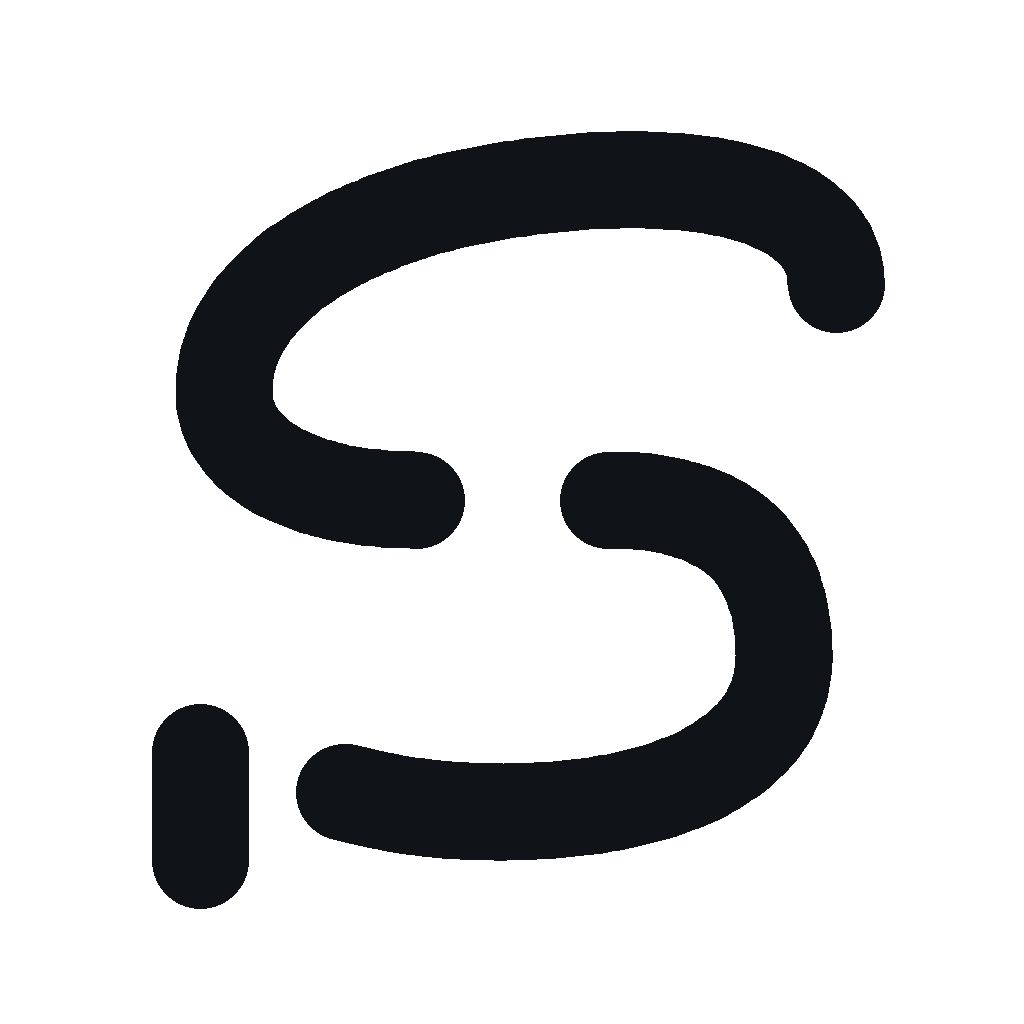
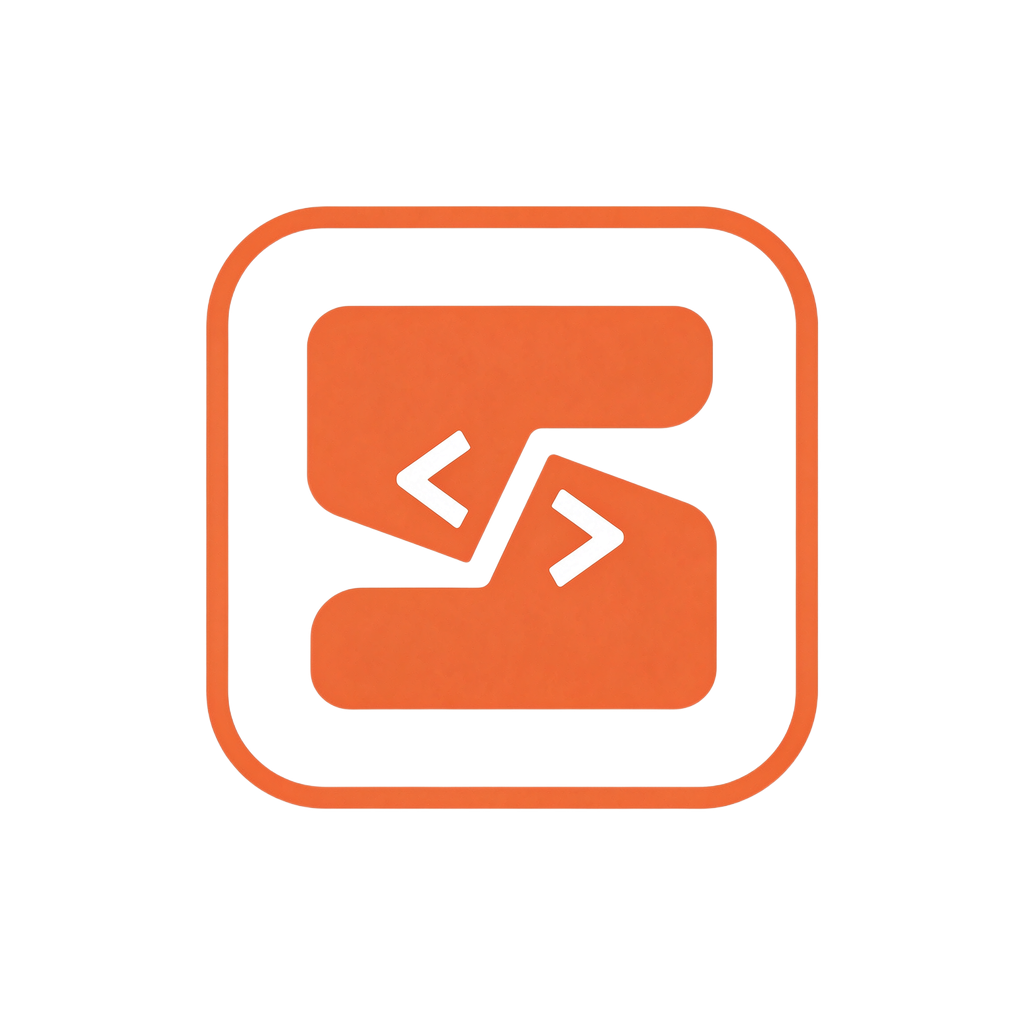
brand: 切换到 2026-11-12 最终版图标母版
- favicon 与桌面图标资源替换为新版橙色填充母版 (#ED6A39)
- BingMark/BrandWordmark 组件重写为 evenodd 填充路径
- 深色主题下通过 --sq-brand-mark-fill CSS 变量自动反白
- 更新 sidebar 快照适配新母版形状

diff --git a/packages/client/ui-primitives/src/brandMarkPath.ts b/packages/client/ui-primitives/src/brandMarkPath.ts
@@ -1,0 +1,3 @@
+// Auto-extracted from latest brand master (icon.svg, 2026-11-12)
+// Rounded-square frame with orange S-slab and white carets cut out via evenodd.
+export const BRAND_MASTER_PATH = 'M817.33 625.00Q817.33 556.67,817.33 625.00Q817.33 693.33,816.33 702.33Q815.33 711.33,813.33 719.00Q811.33 726.67,808.33 734.00Q805.33 741.33,802.33 746.67Q799.33 752.00,792.67 760.67Q786.00 769.33,782.00 773.33Q778.00 777.33,771.67 782.33Q765.33 787.33,758.67 791.33Q752.00 795.33,745.33 798.33Q738.67 801.33,732.00 803.33Q725.33 805.33,714.67 806.67Q704.00 808.00,521.33 808.00Q338.67 808.00,325.33 807.67Q312.00 807.33,306.00 806.33Q300.00 805.33,296.00 804.33Q292.00 803.33,280.00 798.33Q268.00 793.33,259.00 787.33Q250.00 781.33,243.00 774.67Q236.00 768.00,231.00 761.67Q226.00 755.33,220.00 743.67Q214.00 732.00,211.00 721.67Q208.00 711.33,207.33 704.00Q206.67 696.67,206.67 508.67Q206.67 320.67,207.33 313.00Q208.00 305.33,210.00 297.33Q212.00 289.33,214.67 282.33Q217.33 275.33,222.33 266.67Q227.33 258.00,232.67 251.33Q238.00 244.67,244.00 239.00Q250.00 233.33,255.00 229.67Q260.00 226.00,269.00 221.00Q278.00 216.00,286.67 213.00Q295.33 210.00,308.00 208.33Q320.67 206.67,513.33 206.67Q706.00 206.67,717.33 208.33Q728.67 210.00,734.67 212.00Q740.67 214.00,749.00 218.00Q757.33 222.00,767.67 229.67Q778.00 237.33,785.67 245.67Q793.33 254.00,799.33 263.67Q805.33 273.33,807.33 278.00Q809.33 282.67,812.33 293.33Q815.33 304.00,816.33 312.00Q817.33 320.00,817.33 438.00Q817.33 556.00,817.33 556.33Z M714.33 676.67Q715.33 671.33,714.33 676.67Q713.33 682.00,709.67 688.00Q706.00 694.00,702.00 697.67Q698.00 701.33,694.00 703.33Q690.00 705.33,685.33 706.67Q680.67 708.00,516.00 708.33Q351.33 708.67,347.33 708.33Q343.33 708.00,338.67 706.67Q334.00 705.33,328.00 701.33Q322.00 697.33,318.00 691.67Q314.00 686.00,312.67 682.00Q311.33 678.00,311.00 674.33Q310.67 670.67,311.00 649.67Q311.33 628.67,312.67 624.00Q314.00 619.33,318.00 612.67Q322.00 606.00,327.67 601.00Q333.33 596.00,337.67 593.67Q342.00 591.33,348.67 589.67Q355.33 588.00,417.00 588.00Q478.67 588.00,482.00 587.00Q485.33 586.00,488.33 582.33Q491.33 578.67,519.67 518.00Q548.00 457.33,550.33 456.00Q552.67 454.67,555.00 455.00Q557.33 455.33,622.33 479.33Q687.33 503.33,691.33 505.33Q695.33 507.33,700.33 511.67Q705.33 516.00,709.33 522.67Q713.33 529.33,714.67 536.67Q716.00 544.00,715.67 607.33Q715.33 670.67,715.33 671.00Z M227.33 612.67Q227.33 528.00,227.33 612.67Q227.33 697.33,228.00 703.67Q228.67 710.00,232.33 721.00Q236.00 732.00,240.00 738.67Q244.00 745.33,250.33 752.67Q256.67 760.00,262.67 765.00Q268.67 770.00,273.00 772.67Q277.33 775.33,286.67 779.33Q296.00 783.33,307.00 785.33Q318.00 787.33,512.00 787.33Q706.00 787.33,718.00 785.00Q730.00 782.67,742.00 776.67Q754.00 770.67,759.00 766.67Q764.00 762.67,769.67 756.67Q775.33 750.67,782.00 739.67Q788.67 728.67,792.00 717.33Q795.33 706.00,796.00 519.67Q796.67 333.33,796.00 321.33Q795.33 309.33,794.33 304.67Q793.33 300.00,791.00 293.33Q788.67 286.67,783.00 276.67Q777.33 266.67,770.67 259.33Q764.00 252.00,757.67 247.00Q751.33 242.00,741.00 237.00Q730.67 232.00,722.67 230.00Q714.67 228.00,516.67 227.67Q318.67 227.33,311.67 228.00Q304.67 228.67,297.67 230.67Q290.67 232.67,284.67 235.33Q278.67 238.00,274.00 241.00Q269.33 244.00,265.00 247.33Q260.67 250.67,254.33 257.33Q248.00 264.00,242.00 273.67Q236.00 283.33,232.33 294.33Q228.67 305.33,228.00 312.00Q227.33 318.67,227.33 423.00Q227.33 527.33,227.33 527.67Z M487.67 521.67Q502.00 490.67,487.67 521.67Q473.33 552.67,471.67 556.00Q470.00 559.33,468.67 560.33Q467.33 561.33,463.67 560.67Q460.00 560.00,447.67 555.00Q435.33 550.00,387.33 533.00Q339.33 516.00,331.67 512.00Q324.00 508.00,318.67 502.00Q313.33 496.00,311.67 492.67Q310.00 489.33,308.67 484.00Q307.33 478.67,307.33 410.33Q307.33 342.00,308.67 337.00Q310.00 332.00,313.67 326.00Q317.33 320.00,324.00 315.00Q330.67 310.00,337.67 308.00Q344.67 306.00,511.00 306.00Q677.33 306.00,683.33 307.67Q689.33 309.33,694.00 312.33Q698.67 315.33,703.00 320.67Q707.33 326.00,709.33 331.33Q711.33 336.67,711.67 359.00Q712.00 381.33,710.67 387.33Q709.33 393.33,707.33 397.67Q705.33 402.00,700.33 408.00Q695.33 414.00,691.33 417.00Q687.33 420.00,683.33 422.00Q679.33 424.00,671.33 425.67Q663.33 427.33,600.00 427.67Q536.67 428.00,533.00 431.00Q529.33 434.00,527.67 437.00Q526.00 440.00,514.33 465.00Q502.67 490.00,502.33 490.33Z' as const

diff --git a/packages/client/ui-primitives/src/BingMark.tsx b/packages/client/ui-primitives/src/BingMark.tsx
@@ -1,17 +1,5 @@
 import type { ReactNode } from 'react'
-
-/**
- * The three strokes of the Bing-form brand mark on its 1024×1024 master canvas.
- * Copied verbatim from design package `M1_丙形Logo几何与欢迎页动画分镜.md` §2.3;
- * `bing-mark.client.spec.ts` pins them so a local edit cannot drift.
- * The waist gap is the distance between `upper`'s end (416,500) and `lower`'s
- * start (608,500) minus the 96 stroke width — do not close it.
- */
-export const BING_MARK_PATHS = {
-  upper: 'M836 284 C836 192 692 164 520 188 C348 212 224 288 224 392 C224 456 300 500 416 500',
-  lower: 'M608 500 C712 500 784 540 784 656 C784 760 664 812 500 812 C438 812 388 804 344 792',
-  caret: 'M200 752 L200 860',
-} as const
+import { BRAND_MASTER_PATH } from './brandMarkPath.ts'
 
 /** Presentation of the master mark at any requested pixel size. */
 export interface BingMarkProps {
@@ -19,13 +7,14 @@ export interface BingMarkProps {
   readonly size: number
   /** Optional host-authored class (hero surfaces style it for hover). */
   readonly className?: string
-  /** Optional SMIL/CSS children appended inside the stroke group. */
+  /** Optional SMIL/CSS children appended inside the fill group. */
   readonly children?: ReactNode
 }
 
 /**
- * Render the brand mark at `size`. Uses `currentColor`, so it follows the host's
- * label colour and therefore every palette preset.
+ * Render the brand mark at `size`. Uses the orange master fill by default;
+ * the CSS variable `--sq-brand-mark-fill` overrides it for dark themes so
+ * the mark switches to white without re-rendering (per brand spec §2).
  * @param props - size, optional class and optional in-group children.
  * @returns the scalable SVG mark.
  */
@@ -39,10 +28,8 @@ export function BingMark({ size, className, children }: BingMarkProps) {
       fill="none"
       aria-hidden="true"
     >
-      <g stroke="currentColor" strokeWidth="96" strokeLinecap="round" strokeLinejoin="round">
-        <path d={BING_MARK_PATHS.upper} />
-        <path d={BING_MARK_PATHS.lower} />
-        <path d={BING_MARK_PATHS.caret} />
+      <g fill="var(--sq-brand-mark-fill, #ED6A39)" fillRule="evenodd">
+        <path d={BRAND_MASTER_PATH} />
         {children}
       </g>
     </svg>

diff --git a/packages/client/ui-primitives/tests/bing-mark.client.spec.tsx b/packages/client/ui-primitives/tests/bing-mark.client.spec.tsx
@@ -1,18 +1,14 @@
 // @vitest-environment jsdom
-/** The Bing-form master is the single source of truth for every brand mark. */
+/** The rounded-square master is the single source of truth for every brand mark. */
 import { render } from '@testing-library/react'
 import { describe, expect, it } from 'vitest'
-import { BING_MARK_PATHS, BingMark } from '../src/BingMark.tsx'
-
-const MASTER = {
-  upper: 'M836 284 C836 192 692 164 520 188 C348 212 224 288 224 392 C224 456 300 500 416 500',
-  lower: 'M608 500 C712 500 784 540 784 656 C784 760 664 812 500 812 C438 812 388 804 344 792',
-  caret: 'M200 752 L200 860',
-}
+import { BRAND_MASTER_PATH } from '../src/brandMarkPath.ts'
+import { BingMark } from '../src/BingMark.tsx'
 
 describe('BingMark', () => {
-  it('keeps the three master strokes verbatim', () => {
-    expect(BING_MARK_PATHS).toEqual(MASTER)
+  it('keeps the master path verbatim from the 1024 canvas', () => {
+    expect(BRAND_MASTER_PATH.length).toBeGreaterThan(100)
+    expect(BRAND_MASTER_PATH.startsWith('M')).toBe(true)
   })
 
   it('scales the 1024 master to the requested size', () => {
@@ -21,11 +17,18 @@ describe('BingMark', () => {
     expect(svg.getAttribute('viewBox')).toBe('0 0 1024 1024')
     expect(svg.getAttribute('width')).toBe('34')
     expect(svg.getAttribute('height')).toBe('34')
-    expect(svg.querySelectorAll('path')).toHaveLength(3)
+    expect(svg.querySelectorAll('path')).toHaveLength(1)
     expect(svg.getAttribute('aria-hidden')).toBe('true')
   })
 
-  it('appends host-owned animation children inside the stroke group', () => {
+  it('uses evenodd fill with a themeable CSS variable', () => {
+    const view = render(<BingMark size={34} />)
+    const g = view.container.querySelector('svg > g')!
+    expect(g.getAttribute('fill-rule')).toBe('evenodd')
+    expect(g.getAttribute('fill')).toContain('--sq-brand-mark-fill')
+  })
+
+  it('appends host-owned animation children inside the fill group', () => {
     const view = render(
       <BingMark size={34}>
         <animate attributeName="opacity" values="1;0.75;1" dur="1.6s" repeatCount="indefinite" />

diff --git a/packages/client/ui-primitives/src/BrandWordmark.tsx b/packages/client/ui-primitives/src/BrandWordmark.tsx
@@ -1,5 +1,5 @@
 import type { IconProps } from './icons/props.ts'
-import { BING_MARK_PATHS } from './BingMark.tsx'
+import { BRAND_MASTER_PATH } from './brandMarkPath.ts'
 
 /** Display options for the product wordmark. */
 export interface BrandWordmarkProps extends IconProps {
@@ -8,12 +8,11 @@ export interface BrandWordmarkProps extends IconProps {
 }
 
 /**
- * The brand mark is the Bing-form master, shared with {@link BingMark}. The master
+ * The brand mark is the rounded-square master, shared with {@link BingMark}. The master
  * lives in a 1024 unit box; the wordmark's mark slot is 24 units wide, so the group
  * is scaled rather than re-drawn, keeping one geometry for the whole product.
  */
 const MARK_SCALE = 24 / 1024
-const MARK_STROKE = 96
 
 /**
  * Render the product wordmark.
@@ -39,10 +38,8 @@ export function BrandWordmark({ size = 24, className, includeMark = true }: Bran
       aria-hidden="true"
     >
       {includeMark && (
-        <g transform={`scale(${MARK_SCALE})`} stroke="currentColor" strokeWidth={MARK_STROKE} strokeLinecap="round" strokeLinejoin="round">
-          {Object.values(BING_MARK_PATHS).map(path => (
-            <path key={path} d={path} />
-          ))}
+        <g transform={`scale(${MARK_SCALE})`} fill="var(--sq-brand-mark-fill, #ED6A39)" fillRule="evenodd">
+          <path d={BRAND_MASTER_PATH} />
         </g>
       )}
       <text

diff --git a/packages/client/ui-primitives/src/index.ts b/packages/client/ui-primitives/src/index.ts
@@ -41,8 +41,9 @@ export { RiskConfirmation } from './RiskConfirmation.tsx'
 export type { RiskConfirmationProps } from './RiskConfirmation.tsx'
 export { ConnectionIndicator } from './ConnectionIndicator.tsx'
 export type { ConnectionIndicatorState } from './ConnectionIndicator.tsx'
-export { BingMark, BING_MARK_PATHS } from './BingMark.tsx'
+export { BingMark } from './BingMark.tsx'
 export type { BingMarkProps } from './BingMark.tsx'
+export { BRAND_MASTER_PATH } from './brandMarkPath.ts'
 export { BrandWordmark } from './BrandWordmark.tsx'
 export type { BrandWordmarkProps } from './BrandWordmark.tsx'
 export {

diff --git a/packages/client/ui-theme/src/client/themes.css b/packages/client/ui-theme/src/client/themes.css
@@ -144,6 +144,7 @@ body[data-sqh-theme="obsidian"][data-ds-dark-theme] {
   --sqw-alias-border-l4: rgba(242, 244, 247, 0.2);
   --sqw-alias-brand-primary: #f2f4f7;
   --sqw-alias-brand-primary-invert: #f2f4f7;
+  --sq-brand-mark-fill: #FFFFFF;
   --sqw-alias-brand-primary-new-colorprimary-new-color: #7dd3fc;
   --sqw-alias-brand-text: #f2f4f7;
   --sqw-alias-button-contrast-fill: #f2f4f7;
